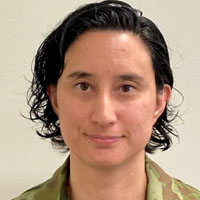
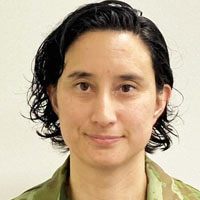
Update team profiles with webp

diff --git a/_pages/team.md b/_pages/team.md
@@ -12,49 +12,45 @@ sidebar:
 
 &nbsp;{:.cf}
 
-![Officer Commanding - Alan Yeung]({{"/assets/images/profiles/ay.jpg"|absolute_url}}){: .align-left width="150" height="150"}
+![Officer Commanding - Alan Yeung]({{"/assets/images/profiles/ay.webp"|absolute_url}}){: .align-left width="150" height="150"}
 
 #### Officer Commanding 
-CAPT (AAC) Alan Yeung 
+Captain (AAC) Alan Yeung 
 
-[Read the OC's address]({% link _posts/2022-08-15-ocs-address.md %}){:.btn.btn--primary}
-
-{% comment %}
-Captain (AAC) Alan Yeung joined the Australian Army Cadets in 2011, first as a volunteer then subsequently as a member of Adult Cadet Staff. He paraded at 206 Army Cadet Unit, North Sydney, from 2011-2016, and in 2018 he joined Headquarters 22 AAC Battalion, initially as the Administration Officer, then assuming the roles of Training Officer, 2IC and Operations Officer. In 2022, CAPT (AAC) Yeung became the inaugural Officer Commanding of 248 Army Cadet Unit - City of Sydney (Gadigal). 
-{% endcomment %}
+[Read the OC's opening address]({% link _posts/2022-08-15-ocs-address.md %}){:.btn.btn--primary}
 
 &nbsp;{:.cf}
 
-![Training Officer - Campbell Yap]({{"/assets/images/profiles/cy.jpg"|absolute_url}}){:.align-left width="150" height="150"}
+![Training Officer - Campbell Yap]({{"/assets/images/profiles/cy.webp"|absolute_url}}){:.align-left width="150" height="150"}
 
 #### Training Officer
-2LT (AAC) Campbell Yap
+Second Lieutenant (AAC) Campbell Yap
 
 &nbsp;{:.cf}
 
-![Quartermaster - Charisse Pulfer]({{"/assets/images/profiles/cp.jpg"|absolute_url}}){:.align-left width="150" height="150"}
+![Quartermaster - Charisse Pulfer]({{"/assets/images/profiles/cp.webp"|absolute_url}}){:.align-left width="150" height="150"}
 
 #### Quartermaster
-LT (AAC) Charisse Pulfer
+Lieutenant (AAC) Charisse Pulfer
 
 
 &nbsp;{:.cf}
 
-![Administration Officer - vacant]({{"/assets/images/profiles/coming-soon.jpg"|absolute_url}}){:.align-left width="150" height="150"}
+![Administration Officer - vacant]({{"/assets/images/profiles/coming-soon.webp"|absolute_url}}){:.align-left width="150" height="150"}
 
 #### Administration Officer
 Position vacant
 
 &nbsp;{:.cf}
 
-![Administration Officer - Ken Poon]({{"/assets/images/profiles/kp.jpg"|absolute_url}}){:.align-left width="150" height="150"}
+![Administration Officer - Ken Poon]({{"/assets/images/profiles/kp.webp"|absolute_url}}){:.align-left width="150" height="150"}
 
 #### Assistant Administration Officer
-2LT (AAC) Ken Poon
+Second Lieutenant (AAC) Ken Poon
 
 &nbsp;{:.cf}
 
-![Assistant Training Officer - David Smyth]({{"/assets/images/profiles/ds.jpg"|absolute_url}}){:.align-left width="150" height="150"}
+![Assistant Training Officer - David Smyth]({{"/assets/images/profiles/ds.webp"|absolute_url}}){:.align-left width="150" height="150"}
 
 #### Assistant Training Officer 
-2LT (AAC) David Smyth
+Second Lieutenant (AAC) David Smyth
